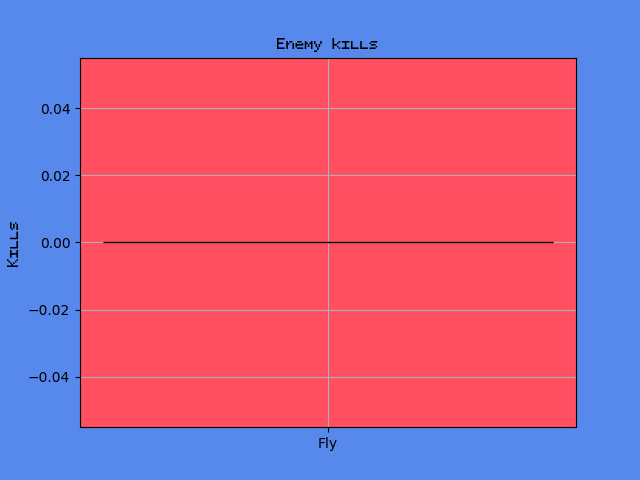
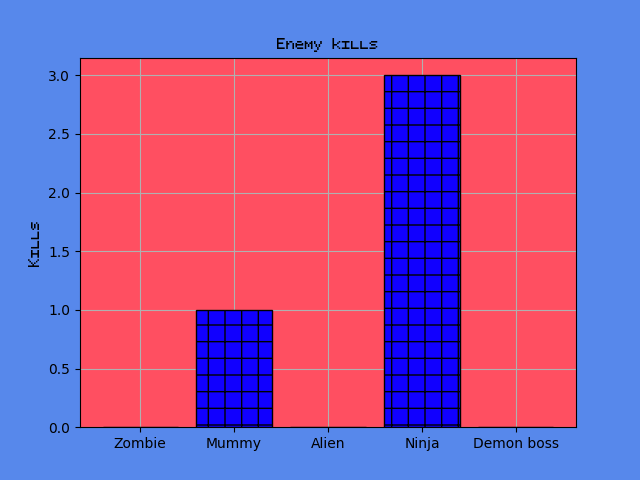
finished game i think

diff --git a/database.py b/database.py
@@ -23,7 +23,8 @@ c.execute("""REPLACE INTO enemy_information
           ("UFO",3,3,1,0),
           ("Alien",10,3,0.8,0),
           ("Alien boss",1000,10,1,1),
-          ("Evil dude",2000,12,1.5,1)""")
+          ("Evil dude",2000,12,1.5,1),
+          ("Demon boss",3000,14,1.2,1)""")
 c.execute("""CREATE TABLE 
           IF NOT EXISTS 
           boss_information(boss varchar,
@@ -34,7 +35,8 @@ c.execute("""CREATE TABLE
 c.execute("""REPLACE INTO boss_information
           VALUES("Robot boss","Missile",100,30),
           ("Alien boss","Fireball",70,50),
-          ("Evil dude","Evil bullet",50,30)""")
+          ("Evil dude","Evil bullet",50,30),
+          ("Demon boss","Fireball",40,10)""")
 c.execute("""CREATE TABLE 
           IF NOT EXISTS
           usernames(username varchar,
@@ -56,8 +58,8 @@ c.execute("""REPLACE INTO level_enemies
           (8,"Mummy"),(8,"Zombie"),
           (9,"UFO"),(9,"UFO"),(9,"UFO"),(9,"UFO"),(9,"UFO"),(9,"UFO"),(9,"Alien"),
           (10,"Alien"),(10,"UFO"),(10,"Alien boss"),
-          (11,"UFO"),(11,"Fly"),(11,"Trash"),(11,"Thug"),
-          (12,"Zombie"),(12,"Mummy"),(12,"Alien"),(12,"Ninja")""")
+          (11,"UFO"),(11,"Fly"),(11,"Trash"),(11,"Thug"),(11,"Evil dude"),
+          (12,"Zombie"),(12,"Mummy"),(12,"Alien"),(12,"Ninja"),(12,"Demon boss")""")
 
 conn.commit()
 

diff --git a/main.py b/main.py
@@ -470,6 +470,8 @@ class Bullets(pygame.sprite.Sprite):
             self.image = pygame.image.load("pictures for survivor game/Missile.png").convert_alpha()
         if self.type == "Evil bullet":
             self.image = pygame.image.load("pictures for survivor game/Evil bullet.png").convert_alpha()
+        if self.type == "Slime ball":
+            self.image = pygame.image.load("pictures for survivor game/slime ball.png").convert_alpha()
         self.image = pygame.transform.rotate(self.image,self.dangle)
         self.x += dx
         self.y += dy
@@ -705,6 +707,8 @@ graphics_dict.add("Evil dude",image_import.get_image("pictures for survivor game
 graphics_dict.add("Evil dude",image_import.get_image("pictures for survivor game/enemy graphics/evil dude 4.png",(135,114)))
 graphics_dict.add("Evil dude",image_import.get_image("pictures for survivor game/enemy graphics/evil dude 5.png",(135,114)))
 graphics_dict.add("Evil dude",image_import.get_image("pictures for survivor game/enemy graphics/evil dude 6.png",(135,114)))
+graphics_dict.add("Demon boss",image_import.get_image("pictures for survivor game/enemy graphics/demon boss 1.png",(600,520)))
+graphics_dict.add("Demon boss",image_import.get_image("pictures for survivor game/enemy graphics/demon boss 2.png",(600,520)))
 
 #menu screen
 player_menu_index = 0
